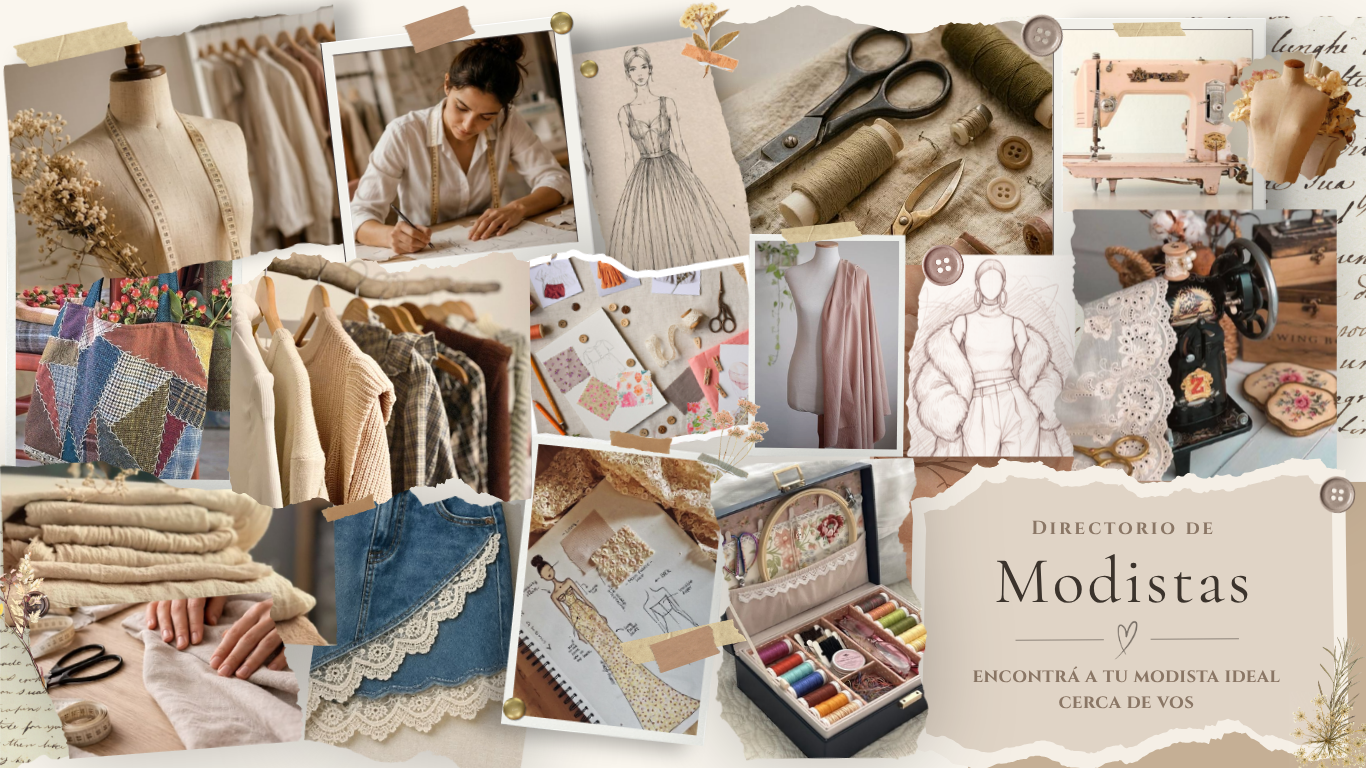
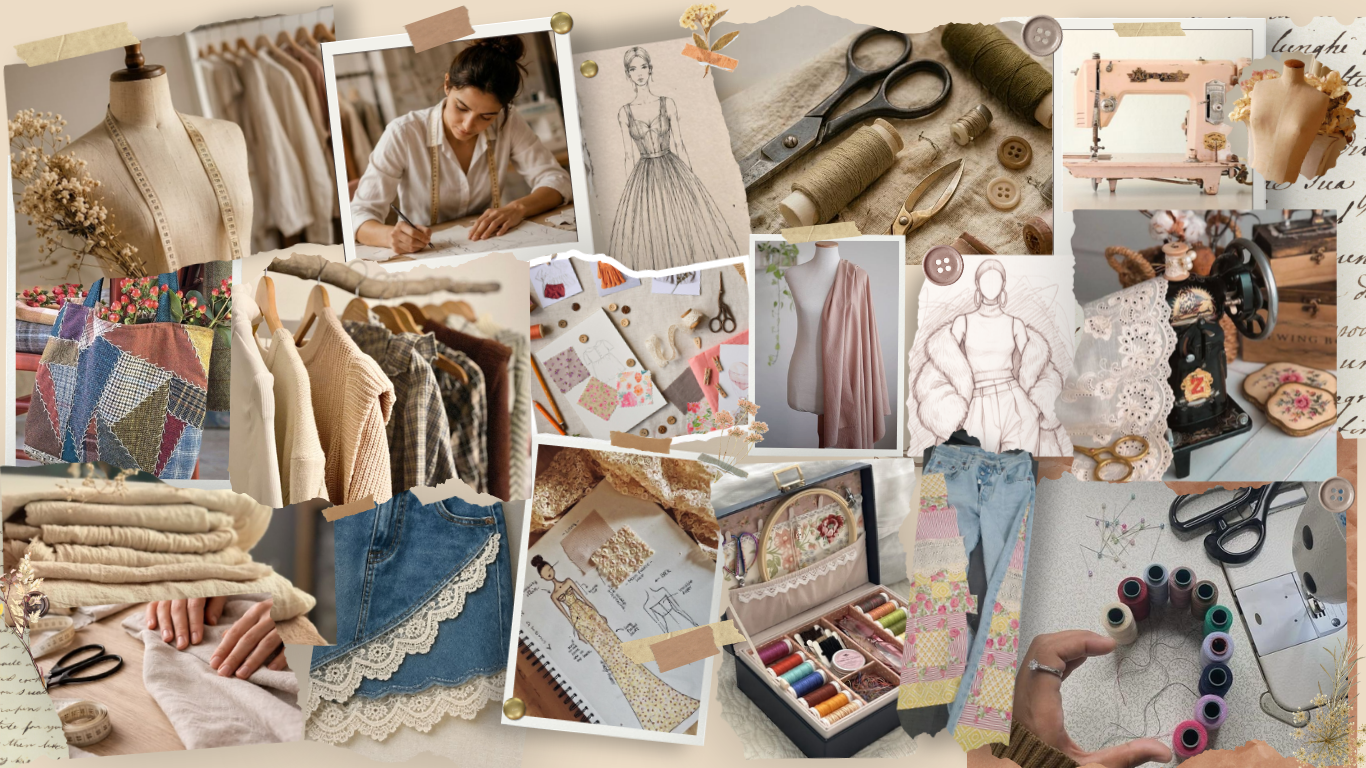
Carrusel y Botones

diff --git a/inicio.html b/inicio.html
@@ -4,6 +4,7 @@
   <meta charset="UTF-8"/>
   <meta name="viewport" content="width=device-width, initial-scale=1.0"/>
   <title>EcoTrama · moda consciente, comunidad que transforma</title>
+  <link rel="icon" type="image/png" href="img/boton-lunares.png"/>
   <link href="https://fonts.googleapis.com/css2?family=Playfair+Display:ital,wght@0,700;1,400&family=DM+Sans:wght@300;400;500;600&display=swap" rel="stylesheet"/>
   <link rel="stylesheet" href="https://unpkg.com/leaflet@1.9.4/dist/leaflet.css"/>
   <link rel="stylesheet" href="styles.css"/>
@@ -27,7 +28,7 @@
 </head>
 <body>
 
-<!-- NAV -->
+<!-- Barra de navegación -->
 <nav id="navbar">
   <a class="nav-logo" href="#">EcoTrama <span>✦</span></a>
   <ul class="nav-links">
@@ -68,8 +69,8 @@
       <div class="slide-bg-css slide-bg-zoom" style="background-image: url('img/collage-foro.png'); background-size: cover; background-position: center;"></div>
       <div class="slide-overlay"></div>
       <div class="slide-content-animado">
-        <div class="slide-emoji-grande">💬</div>
-        <h2 class="slide-titulo">Foro Comunitario</h2>
+        <div class="slide-emoji-grande"><img src="img/icono-foro.png" alt="Foro" style="width:60px; height:auto; position:relative; top:20px;"/></div>
+        <h2 class="slide-titulo" >Foro Comunitario</h2>
         <p class="slide-descripcion">Compartí ideas, patrones y tutoriales</p>
         <a href="#mensaje" class="slide-boton-pulso">Ver foro →</a>
       </div>
@@ -81,7 +82,7 @@
       <div class="slide-bg-css slide-bg-zoom" style="background: linear-gradient(135deg, #65613F 0%, #DAE097 50%, #F7D0D5 100%);"></div>
       <div class="slide-overlay"></div>
       <div class="slide-content-animado">
-        <div class="slide-emoji-grande">🧺</div>
+        <div class="slide-emoji-grande"><img src="img/icono-dona.png" alt="Dona" style="width:60px; height:auto; position:relative; top:20px;"/></div>
         <h2 class="slide-titulo">Doná tu Ropa</h2>
         <p class="slide-descripcion">Dale una segunda vida a lo que ya no usás</p>
         <a href="#dona" class="slide-boton-pulso">Donar ahora →</a>
@@ -94,7 +95,7 @@
       <div class="slide-bg-css slide-bg-zoom" style="background-image: url('img/collage-modistas.png'); background-size: cover; background-position: center;"></div>
       <div class="slide-overlay"></div>
       <div class="slide-content-animado">
-        <div class="slide-emoji-grande">🪡</div>
+        <div class="slide-emoji-grande"><img src="img/icono-modistas.png" alt="modistas" style="width:60px; height:auto; position:relative; top:20px;"/></div>
         <h2 class="slide-titulo">Directorio de Modistas</h2>
         <p class="slide-descripcion">Encontrá a tu modista ideal cerca de vos</p>
         <a href="#directorio-seccion" class="slide-boton-pulso">Ver modistas →</a>
@@ -102,25 +103,12 @@
       <div class="slide-label">Directorio de modistas</div>
     </div>
 
-    <!-- SLIDE 4: Registro -->
-    <div class="carousel-slide slide-con-collage" id="registro">
-      <div class="slide-bg-css slide-bg-zoom" style="background-image: url('img/collage-comunidad.png'); background-size: cover; background-position: center;"></div>
-      <div class="slide-overlay"></div>
-      <div class="slide-content-animado">
-        <div class="slide-emoji-grande">🌸</div>
-        <h2 class="slide-titulo">Unite a la Comunidad</h2>
-        <p class="slide-descripcion">Sumate a un movimiento consciente y sostenible</p>
-        <a href="#" class="slide-boton-pulso" onclick="abrirRegistro(); return false;">Registrate →</a>
-      </div>
-      <div class="slide-label">Unite a la comunidad</div>
-    </div>
-
     <!-- SLIDE 5: Sobre nosotras -->
     <div class="carousel-slide slide-con-collage" id="sobre">
-      <div class="slide-bg-css slide-bg-zoom" style="background: linear-gradient(135deg, #65613F 0%, #8D8B4C 50%, #DAE097 100%);"></div>
+      <div class="slide-bg-css slide-bg-zoom" style="background-image: url('img/collage-sobre.png'); background-size: cover; background-position: center;"></div>
       <div class="slide-overlay"></div>
       <div class="slide-content-animado">
-        <div class="slide-emoji-grande">🌿</div>
+        <div class="slide-emoji-grande"><img src="img/icono-sobre.png" alt="Sobre nosotras" style="width:100px; height:auto; position:relative; top:20px;"/></div>
         <h2 class="slide-titulo">Sobre Nosotras</h2>
         <p class="slide-descripcion">Conocé quiénes somos y por qué hacemos esto</p>
         <a href="sobre.html" class="slide-boton-pulso">Conocernos →</a>
@@ -140,7 +128,6 @@
     <button class="dot" onclick="goToSlide(1)"></button>
     <button class="dot" onclick="goToSlide(2)"></button>
     <button class="dot" onclick="goToSlide(3)"></button>
-    <button class="dot" onclick="goToSlide(4)"></button>
   </div>
 
   <div class="scroll-hint">↓ Explorá</div>

diff --git a/js/carousel.js b/js/carousel.js
@@ -1,6 +1,6 @@
 // ── Carrusel con fade suave ──
 let current = 0;
-const total = 5;
+const total = 4;
 let autoTimer;
 let isTransitioning = false;
 